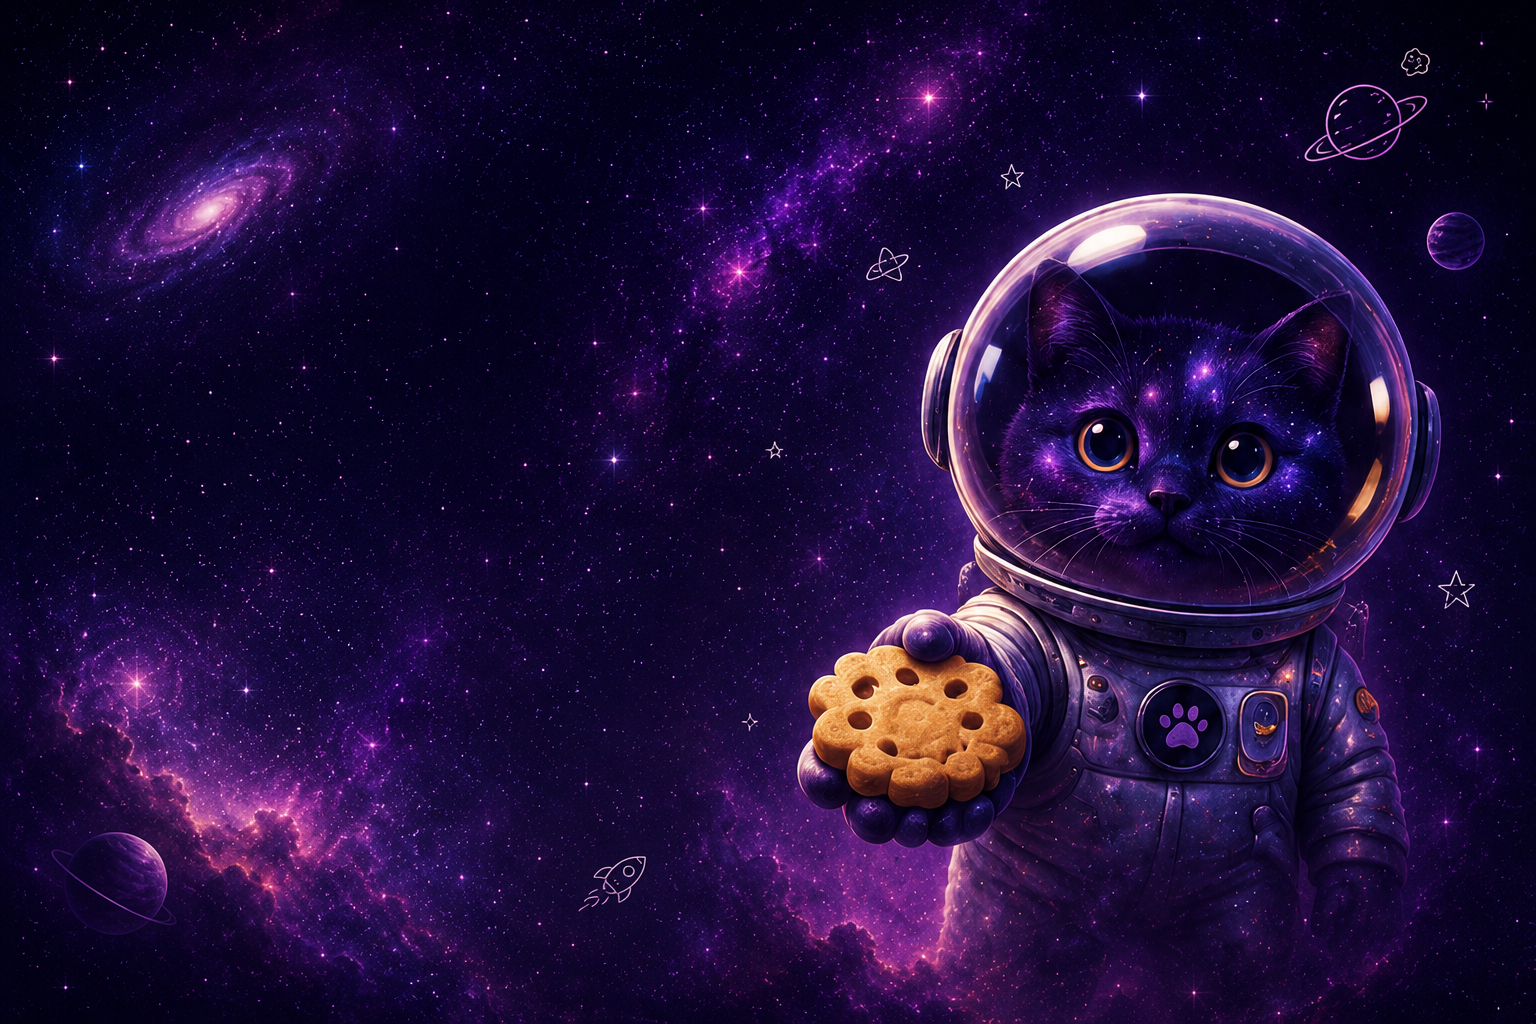
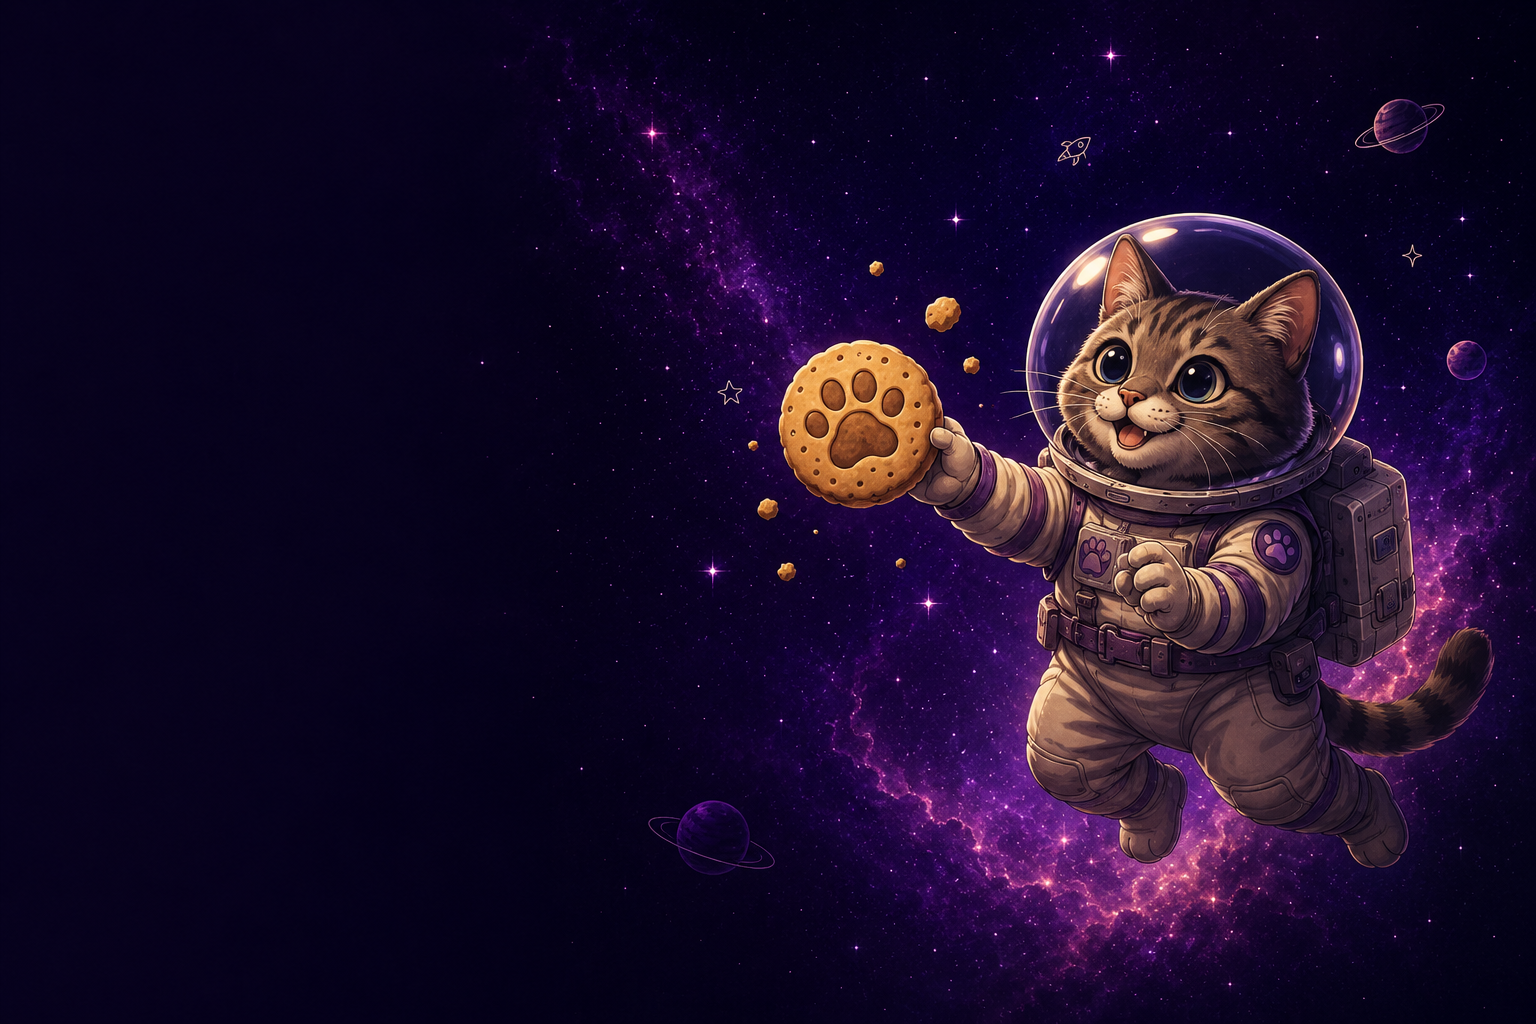
feat: finalize homepage hero, header and visual identity

diff --git a/style.css b/style.css
@@ -5,23 +5,22 @@
 :root {
   /* ===== Colours ===== */
 
-  --clr-space: #08061a;
-  --clr-space-light: #131033;
+  --clr-space: #09061b;
+  --clr-space-deep: #060414;
+  --clr-space-light: #151032;
 
-  --clr-nebula: #8a2be2;
-  --clr-nebula-light: #b15cff;
-  --clr-nebula-dark: #5b1fa8;
+  --clr-nebula: #8e47e9;
+  --clr-nebula-light: #b274ff;
+  --clr-nebula-dark: #6431c7;
 
-  --clr-electric: #54d6ff;
+  --clr-biscuit: #f4d18a;
+  --clr-biscuit-dark: #d8a55a;
 
-  --clr-biscuit: #f7d89b;
-  --clr-biscuit-dark: #efc46a;
+  --clr-white: #f9f8fd;
 
-  --clr-white: #fafafc;
-  --clr-grey-100: #e8e9f1;
-  --clr-grey-300: #bfc3d4;
-  --clr-grey-600: #62657a;
-  --clr-grey-900: #1d2035;
+  --clr-grey-100: #eceaf7;
+  --clr-grey-300: #c8c4d9;
+  --clr-grey-600: #75708e;
 
   /* ===== Typography ===== */
 
@@ -193,8 +192,8 @@ section {
   align-items: flex-start;
   gap: var(--space-7);
 
-  background: rgba(19,16,51,.72);
-backdrop-filter: blur(10px);
+  background: rgba(10, 8, 27, 0.78);
+  backdrop-filter: blur(14px);
   color: var(--clr-white);
 }
 
@@ -297,30 +296,31 @@ backdrop-filter: blur(10px);
   color: var(--clr-white);
   border-color: var(--clr-nebula-light);
   box-shadow: 0 0 18px rgba(177, 92, 255, 0.55);
+  transform:translateY(-2px)
 }
 
 .header-rail {
   position: absolute;
-  left: 18rem;
+  left: 17.9rem;
   right: var(--space-7);
-  bottom: 0.15rem;
+  bottom: 0.179rem;
 
   height: 1.6rem;
 
   background:
+    linear-gradient(var(--clr-nebula-light), var(--clr-nebula-light)) left
+      0.17rem / 32rem 0.62rem no-repeat,
     linear-gradient(var(--clr-nebula-light), var(--clr-nebula-light))
-      left 0.15rem / 32rem 0.65rem no-repeat,
-    linear-gradient(var(--clr-nebula-light), var(--clr-nebula-light))
-      calc(32rem + 11rem) 0.15rem / calc(100% - 43rem) 0.65rem no-repeat;
+      calc(32rem + 11rem) 0.17rem / calc(100% - 43rem) 0.62rem no-repeat;
 
   pointer-events: none;
 }
 
 .dash {
   position: absolute;
-  top: 0.15rem;
+  top: 0.17rem;
   width: 2rem;
-  height: 0.65rem;
+  height: 0.62rem;
   border-radius: var(--radius-pill);
 }
 
@@ -372,14 +372,13 @@ backdrop-filter: blur(10px);
 #hero .container {
   position: relative;
   z-index: var(--z-content);
-  transform: translateY(-1rem);
+  transform: translateY(-0.5rem);
 }
 
 .hero-text {
   color: var(--clr-white);
-  max-width: 34rem;
-    margin-left: -2rem;
-    z-index: var(--z-deco);
+  max-width: 32rem;
+  z-index: var(--z-deco);
 }
 
 .hero-text h1 {
@@ -392,9 +391,9 @@ backdrop-filter: blur(10px);
   inset: 0;
   background: linear-gradient(
     90deg,
-    rgba(8, 6, 26, 0.92),
-    rgba(8, 6, 26, 0.55),
-    rgba(8, 6, 26, 0.08)
+    rgba(9, 6, 27, 0.78),
+    rgba(9, 6, 27, 0.38),
+    rgba(9, 6, 27, 0.04)
   );
   z-index: var(--z-overlay);
 }
@@ -402,11 +401,11 @@ backdrop-filter: blur(10px);
 .hero-greeting {
   display: block;
   font-family: var(--ff-handwritten);
-  font-size: clamp(3rem, 6vw, 4.5rem);
+  font-size: clamp(2.7rem, 5vw, 4rem);
   font-weight: var(--fw-bold);
   color: var(--clr-biscuit);
   line-height: 0.9;
-  margin-bottom: var(--space-1);
+  margin-bottom: -0.25rem;
 }
 
 .hero-title {
@@ -414,19 +413,20 @@ backdrop-filter: blur(10px);
   font-family: var(--ff-display);
   font-size: var(--fs-900);
   font-weight: var(--fw-bold);
-  line-height: var(--lh-tight);
-  letter-spacing: -0.04em;
+  line-height: 0.95;
+  letter-spacing: -0.03em;
   max-width: 11ch;
 }
 
 .hero-tagline {
   font-size: var(--fs-500);
   font-weight: var(--fw-medium);
-  margin-bottom: var(--space-2);
+  margin-top: 1.4rem;
+  margin-bottom: 1.3rem;
 }
 
 .hero-text p:not(.hero-tagline) {
-  max-width: 36ch;
+  max-width: 34ch;
   font-size: var(--fs-400);
   line-height: var(--lh-normal);
   margin-bottom: 0;
@@ -448,7 +448,7 @@ backdrop-filter: blur(10px);
   justify-content: center;
   width: fit-content;
 
-  padding: 0.85rem 1.4rem;
+  padding: 1rem 1.9rem;
   border-radius: var(--radius-pill);
 
   font-family: var(--ff-body);
@@ -471,10 +471,6 @@ backdrop-filter: blur(10px);
   outline-offset: 4px;
 }
 
-
-
-
-
 /* =========================
    Project Page
 ========================= */
@@ -485,8 +481,16 @@ backdrop-filter: blur(10px);
   padding-bottom: var(--space-9);
 
   background:
-    radial-gradient(circle at top right, rgba(177, 92, 255, 0.22), transparent 35%),
-    radial-gradient(circle at bottom left, rgba(84, 214, 255, 0.12), transparent 35%),
+    radial-gradient(
+      circle at top right,
+      rgba(177, 92, 255, 0.22),
+      transparent 35%
+    ),
+    radial-gradient(
+      circle at bottom left,
+      rgba(84, 214, 255, 0.12),
+      transparent 35%
+    ),
     var(--clr-space);
 
   color: var(--clr-white);
